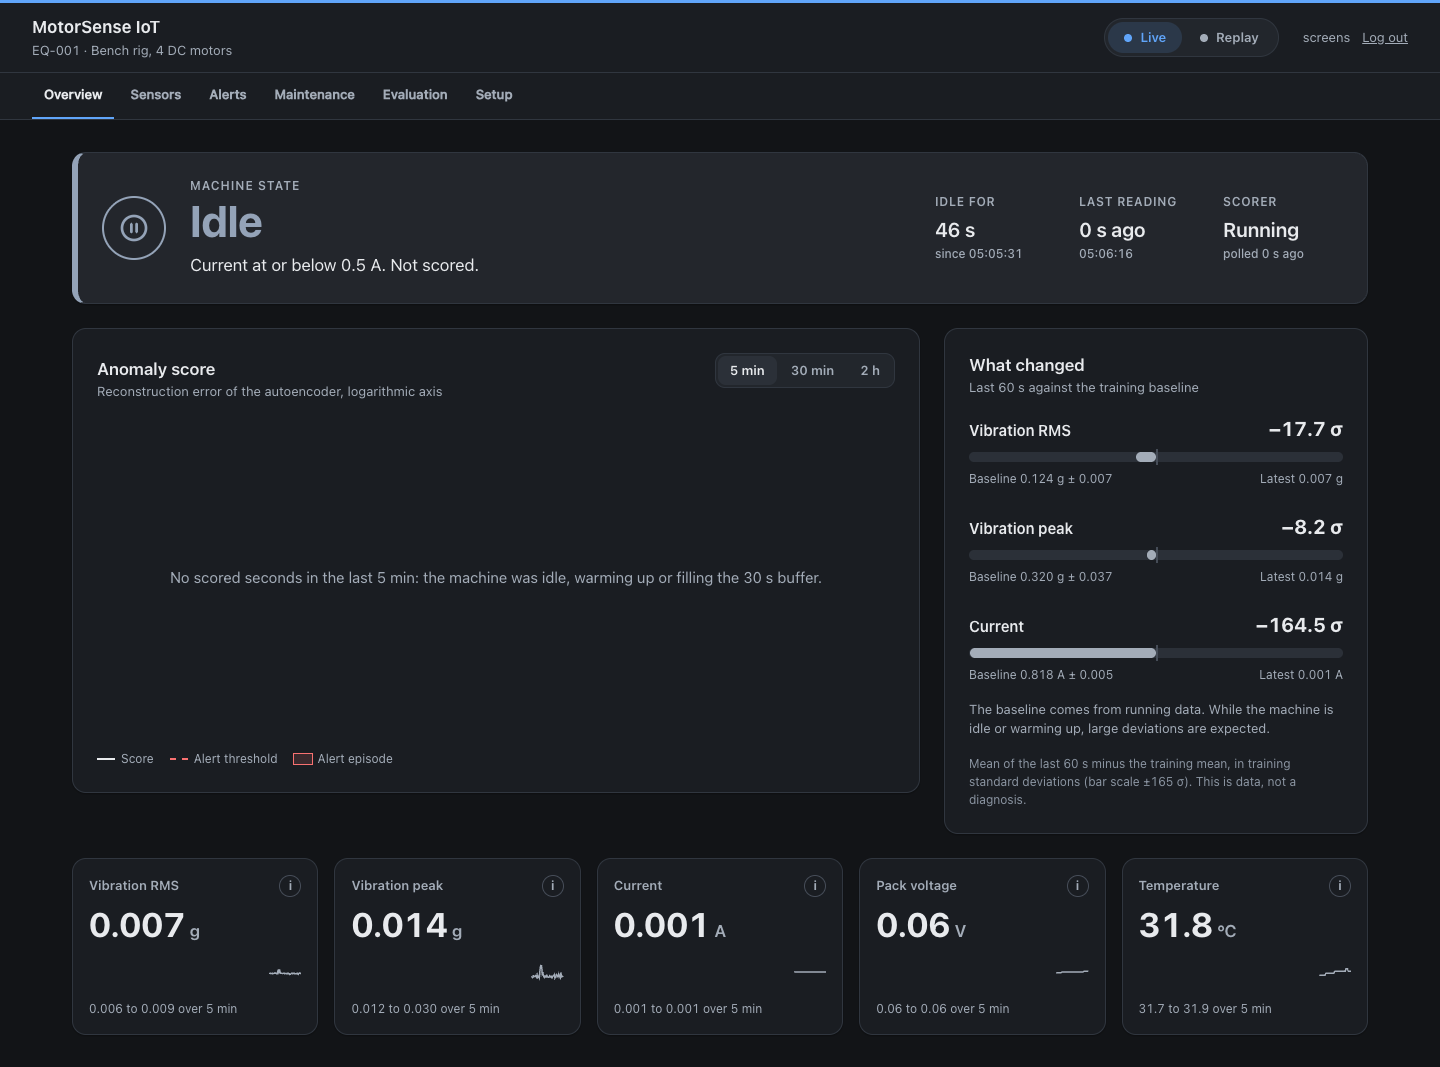
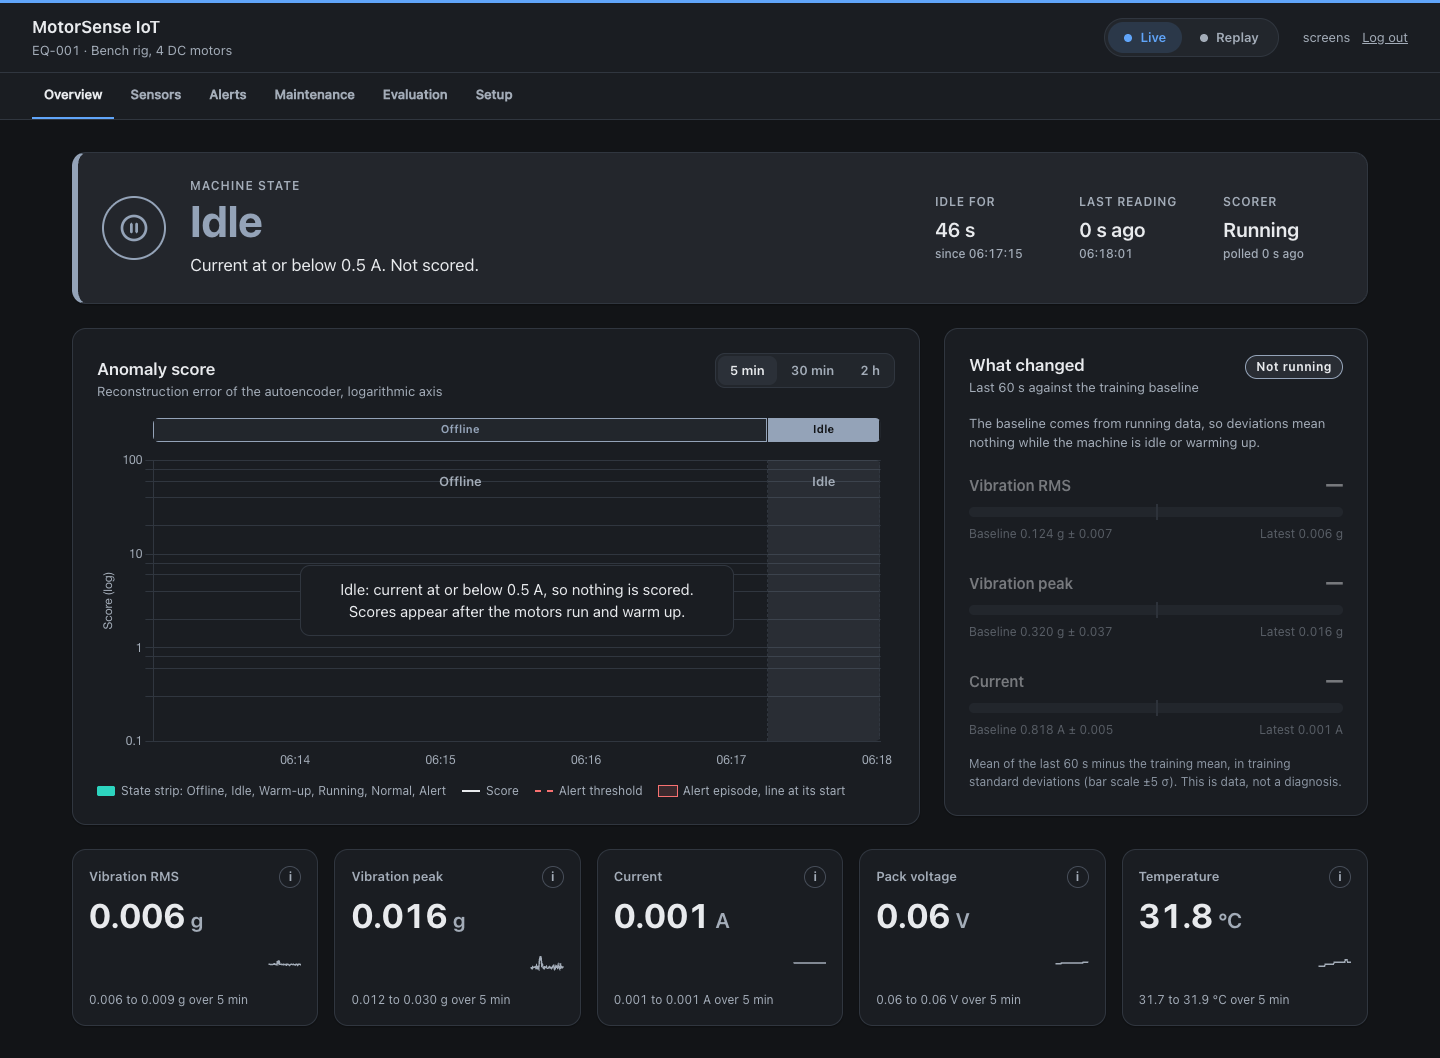
Retake dashboard screenshots for part 1.5 and describe each
Live shots are the live code path fed from recorded sessions under
run_label screenshot_feed, not live measurements; replay shots read
recorded scores from the database with the chart stopping at the
playhead.

diff --git a/docs/screenshots/README.md b/docs/screenshots/README.md
@@ -1,8 +1,10 @@
-# Dashboard screenshots (part 1)
+# Dashboard screenshots (part 1.5)
 
 Captured on 2026-10-22 at 1440 px and 390 px width, dark theme, with headless Google Chrome
-156 driven over the Chrome DevTools protocol (Playwright was not installed). Code as of commit
-`455f1f9`. Times on screen are local time (UTC+3).
+156 driven over the Chrome DevTools protocol (Playwright was not installed), browser cache
+disabled. Code: idle and warm-up as of commit `69dd450`; the other shots as of `e28b142`.
+`69dd450` changes only the empty score chart, which the other shots do not show. Times on
+screen are local time (UTC+3).
 
 ## Live screenshots
 
@@ -20,21 +22,24 @@ measurement.** No Raspberry Pi was connected. How they were made:
 
 The idle rows and the normal session are two different recordings played back to back, so the
 step in the temperature and pack voltage sparklines (for example 31.8 °C to 25.3 °C) comes from
-switching recordings, not from the rig.
+switching recordings, not from the rig. The Offline segment at the start of the idle and warm-up
+strips is the real gap between an earlier feed of the same fixture and this one: no readings
+were stored in it.
 
 | File | What it shows |
 |---|---|
-| `live_running_1440.png`, `live_running_390.png` | Live, state Normal: running for about 8 minutes, the last 5 minutes of scores (about 0.6 to 2, below the threshold 2.95), no alert. Fed from `r5_normal_05`. |
-| `live_idle_1440.png`, `live_idle_390.png` | Live, state Idle: current at or below 0.5 A, not scored, so the score chart is empty and says why. "What changed" shows large deviations with the note that the baseline comes from running data. Fed from `labeltest_01_warmup`. |
-| `live_warming_1440.png`, `live_warming_390.png` | Live, state Warming up: progress ring at 107 of 180 s and "Scoring starts after warm-up". Fed from `r5_normal_05_warmup`. |
-| `live_offline_1440.png`, `live_offline_390.png` | Live, state Offline: the feeder had stopped about 1 min 40 s before the capture; the scorer was still running. The chart ends at the last reading, "What changed" has no readings in the last 60 s, and the tiles show the last values dimmed with "Last reading ... ago". |
+| `live_idle_1440.png`, `live_idle_390.png` | Live, state Idle: current at or below 0.5 A, not scored. The state strip shows Offline then Idle; with nothing to score, the chart area shows the same segments and the sentence "Idle: current at or below 0.5 A, so nothing is scored…". "What changed" is dimmed and marked "Not running". Fed from `labeltest_01_warmup`. |
+| `live_warming_1440.png`, `live_warming_390.png` | Live, state Warming up: progress ring (111 and 113 of 180 s), strip Offline, Idle, Warm-up, chart area explaining that scoring starts after warm-up, "What changed" marked "Not running". Fed from `r5_normal_05_warmup`. |
+| `live_running_1440.png`, `live_running_390.png` | Live, state Normal: running for about 8 minutes, strip Normal, the last 5 minutes of scores (about 0.6 to 2, below the threshold 2.95), no alert. Fed from `r5_normal_05`. |
+| `live_offline_1440.png`, `live_offline_390.png` | Live, state Offline: the feeder had stopped about 31 to 37 s before the capture; the scorer was still running. The strip ends with an Offline segment, "What changed" is marked "Offline", and the tiles show the last values dimmed with "Last reading … ago". |
 
 ## Replay screenshots
 
 These show recorded scores and readings read from the real database. They are replays, not live
-data, and the violet banner says so.
+data, and the violet banner says so. "Show whole session" is off, so the chart and the strip
+stop at the playhead.
 
 | File | What it shows |
 |---|---|
-| `replay_fault_open_01_alert_1440.png`, `replay_fault_open_01_alert_390.png` | Replay of `r5_fault_open_01` (one motor disconnected) with the playhead at second 219 of 632 (`?pos=218`), the second the first alert fires: state Alert, score 189 against the threshold 2.95. The shaded alert episode runs to the end of the recording, flagged as still active when the recording ended. |
-| `replay_normal_05_1440.png`, `replay_normal_05_390.png` | Replay of `r5_normal_05` (normal test session) with the playhead at second 401 of 659 (`?pos=400`): state Normal, score 1.32, no alert in the session. |
+| `replay_fault_open_01_alert_1440.png`, `replay_fault_open_01_alert_390.png` | Replay of `r5_fault_open_01` (one motor disconnected) at second 219 of 632 (`?pos=218`), the second the first alert fires: "Alert since 16:16:47, lasting 0:00", score 189 against the threshold 2.95, largest deviation Current −23.6 σ (baseline 0.818 A, latest 0.697 A), "This is data, not a diagnosis". Marker "Alert started 16:16:47"; strip Warm-up, Running, Normal, Alert (the alert segment is one second wide at this moment). |
+| `replay_normal_05_1440.png`, `replay_normal_05_390.png` | Replay of `r5_normal_05` (normal test session) at second 401 of 659 (`?pos=400`): state Normal, score 1.32, no alert in the session; strip Idle (the first seconds below 0.5 A), Warm-up, Running, Normal. |
